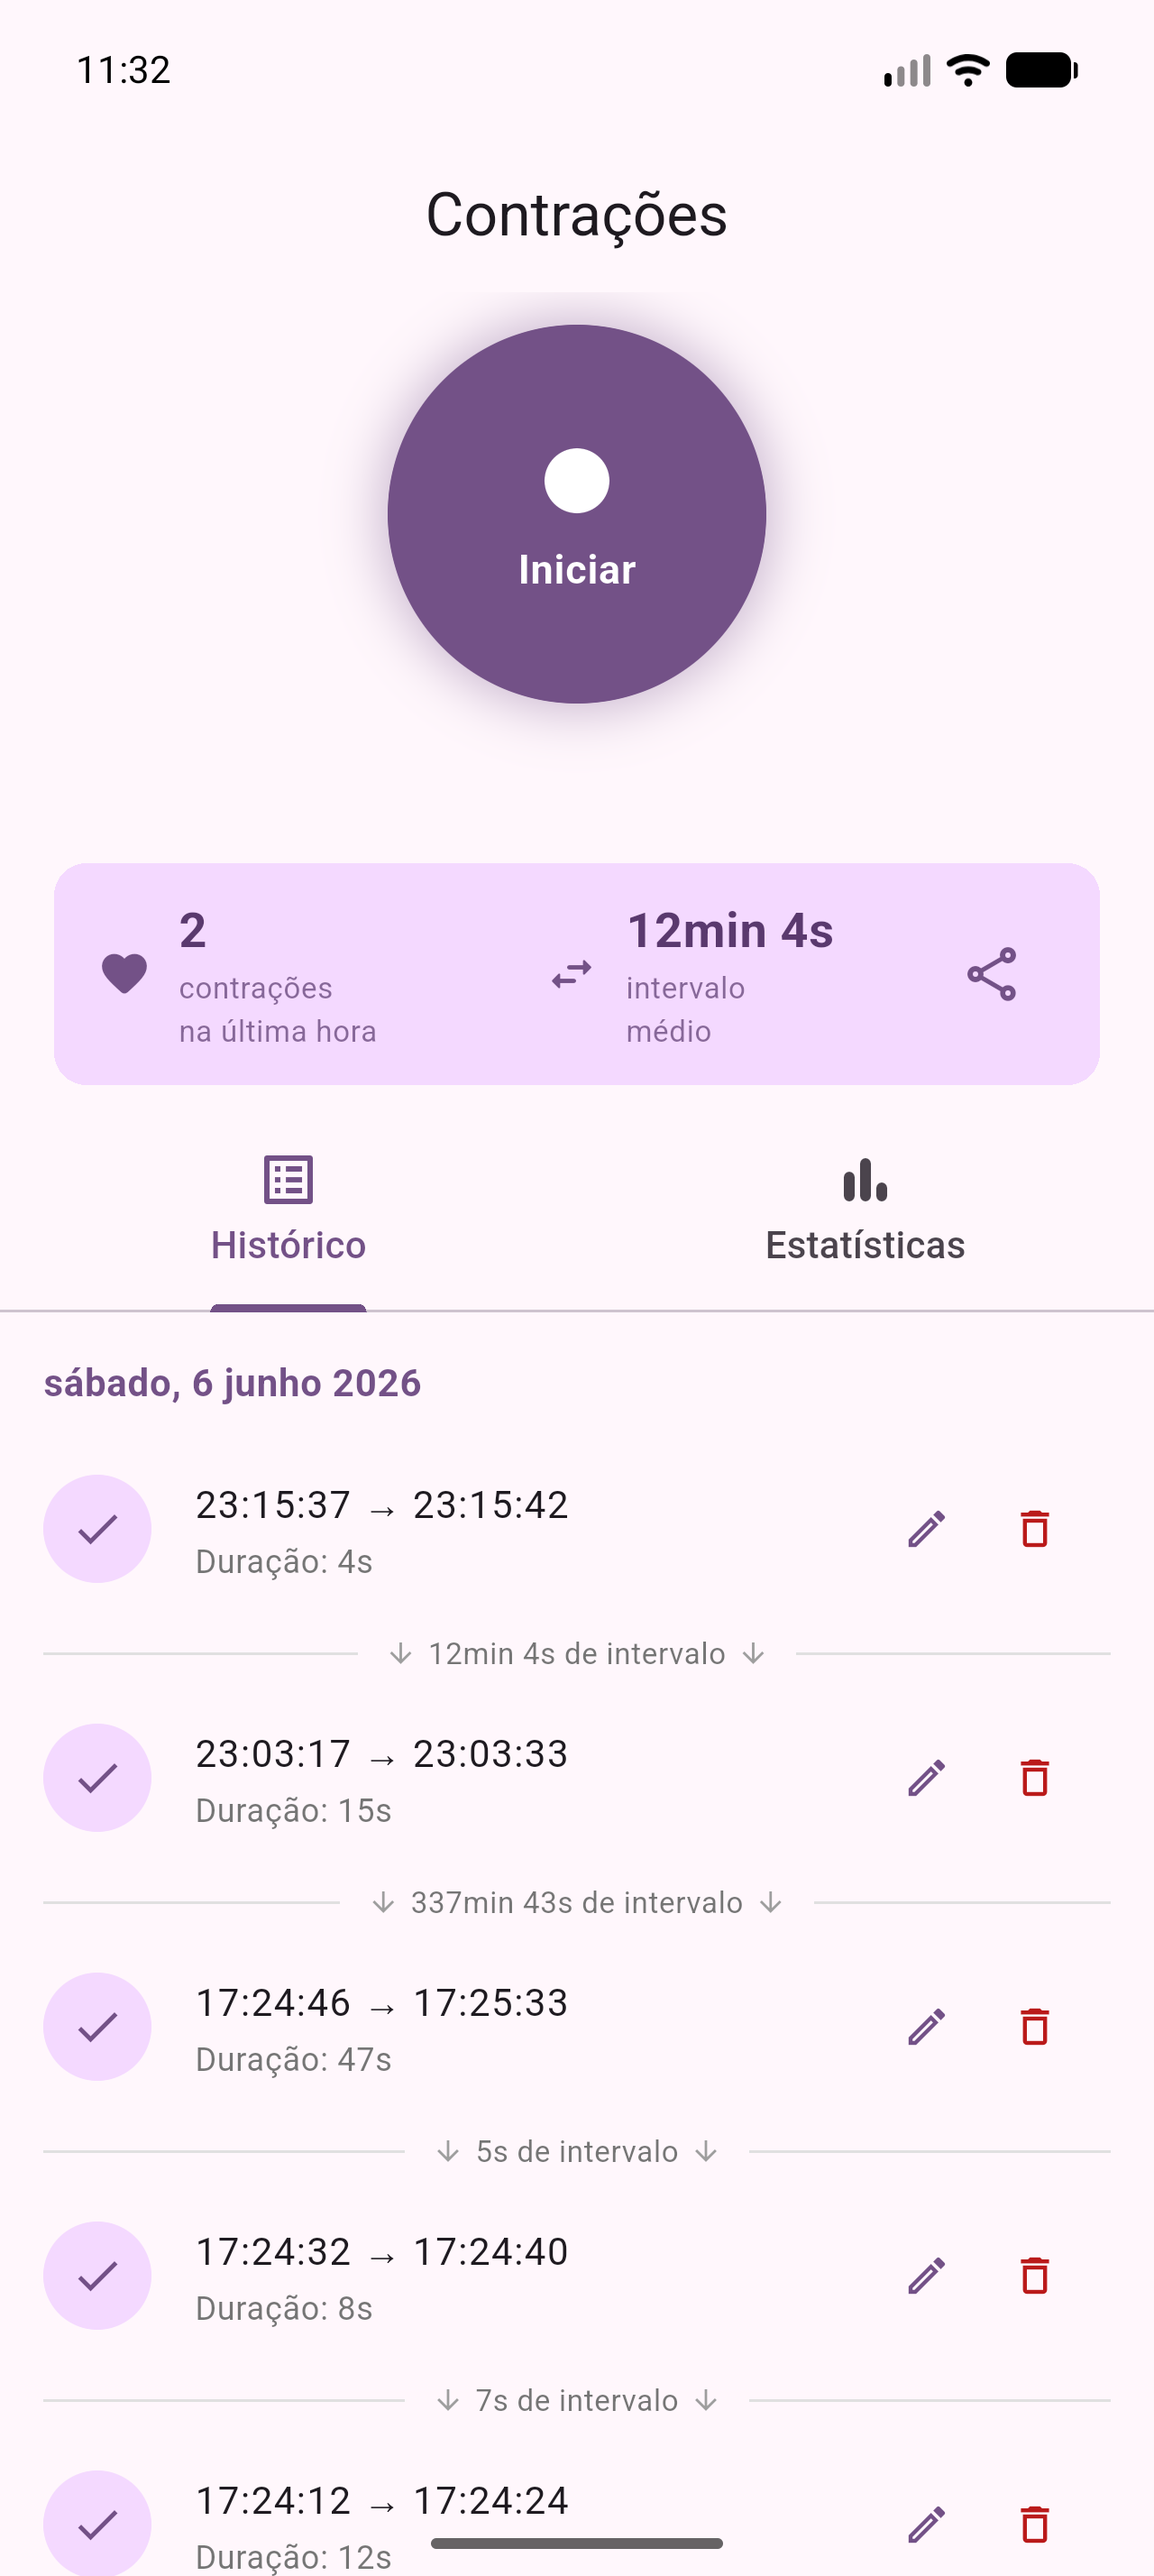
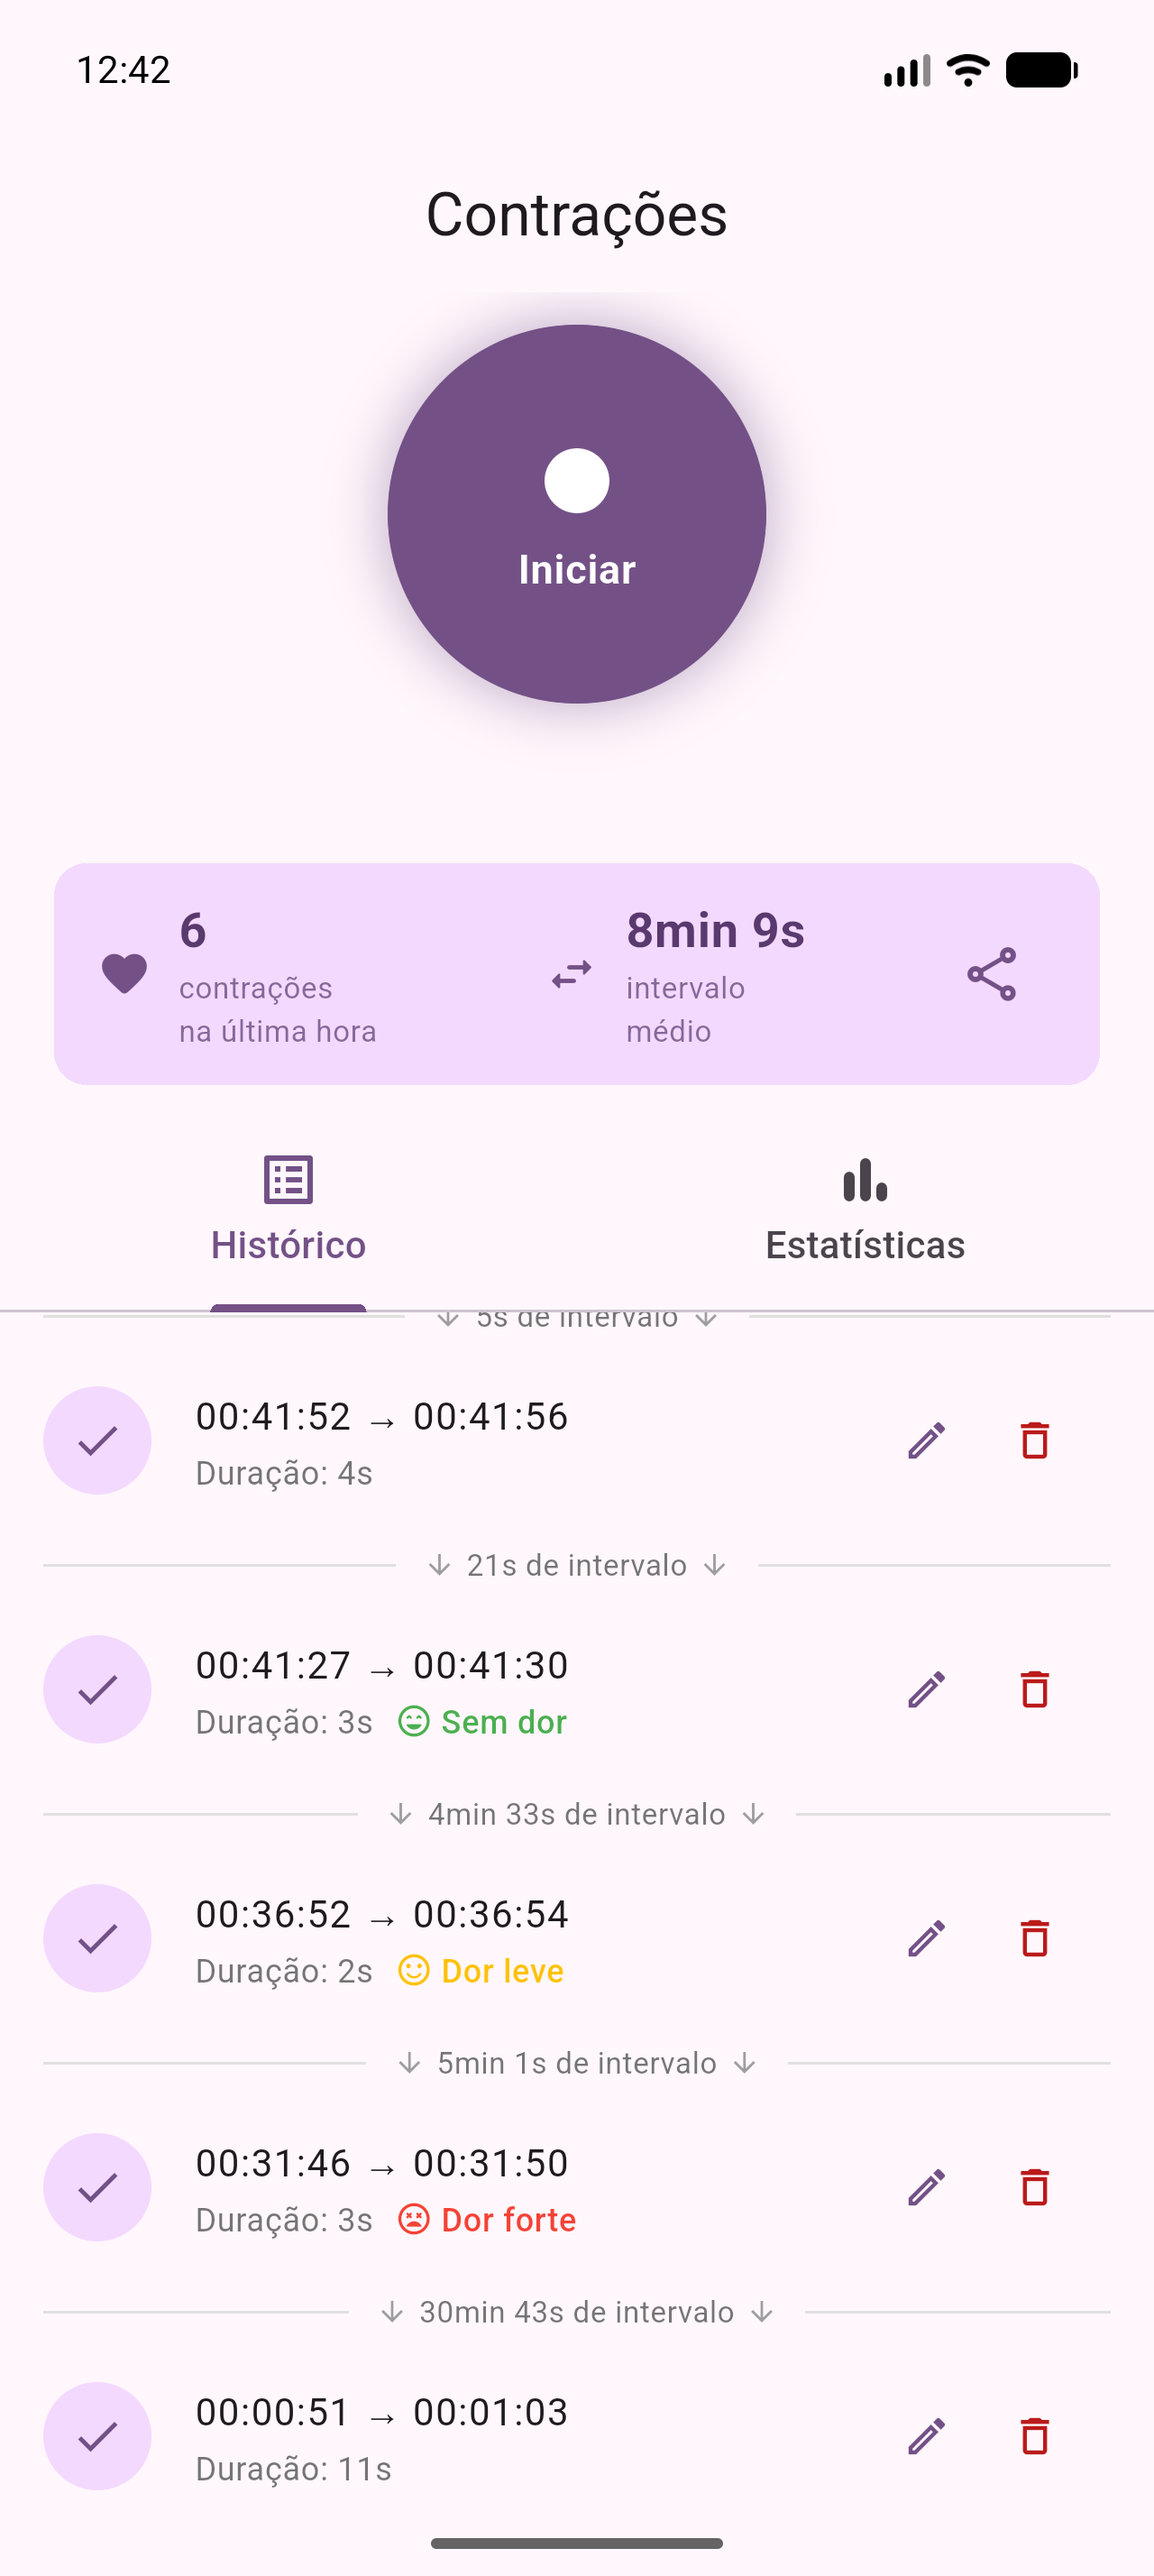
docs: atualiza screenshots com nível de dor no histórico e sheet de seleção
- Substitui screenshot do histórico por versão que exibe níveis de dor
  (Sem dor, Dor leve, Dor forte) em cada linha de contração
- Adiciona screenshot do bottom sheet de seleção de nível de dor
- Reorganiza legendas das seções de screenshots no README

diff --git a/README.md b/README.md
@@ -4,19 +4,21 @@ Aplicativo para registro e acompanhamento de contrações uterinas durante o tra
 
 ## Screenshots
 
-### Tela de carregamento · Tela principal · Contração em andamento
+### Tela de carregamento · Histórico com níveis de dor · Contração em andamento
 
 <p align="center">
   <img src="screenshots/04_splash.png" width="200" alt="Splash screen"/>
   &nbsp;&nbsp;
-  <img src="screenshots/01_tela_principal.png" width="200" alt="Tela principal"/>
+  <img src="screenshots/01_tela_principal.png" width="200" alt="Histórico com níveis de dor"/>
   &nbsp;&nbsp;
   <img src="screenshots/02_contracao_ativa.png" width="200" alt="Contração ativa"/>
 </p>
 
-### Estatísticas — Calendário · Métricas e gráfico
+### Seleção de nível de dor · Estatísticas — Calendário · Métricas e gráfico
 
 <p align="center">
+  <img src="screenshots/07_nivel_de_dor_sheet.png" width="200" alt="Seleção de nível de dor"/>
+  &nbsp;&nbsp;
   <img src="screenshots/05_estatisticas_calendario.png" width="200" alt="Calendário de estatísticas"/>
   &nbsp;&nbsp;
   <img src="screenshots/06_estatisticas_grafico.png" width="200" alt="Métricas e gráfico"/>
